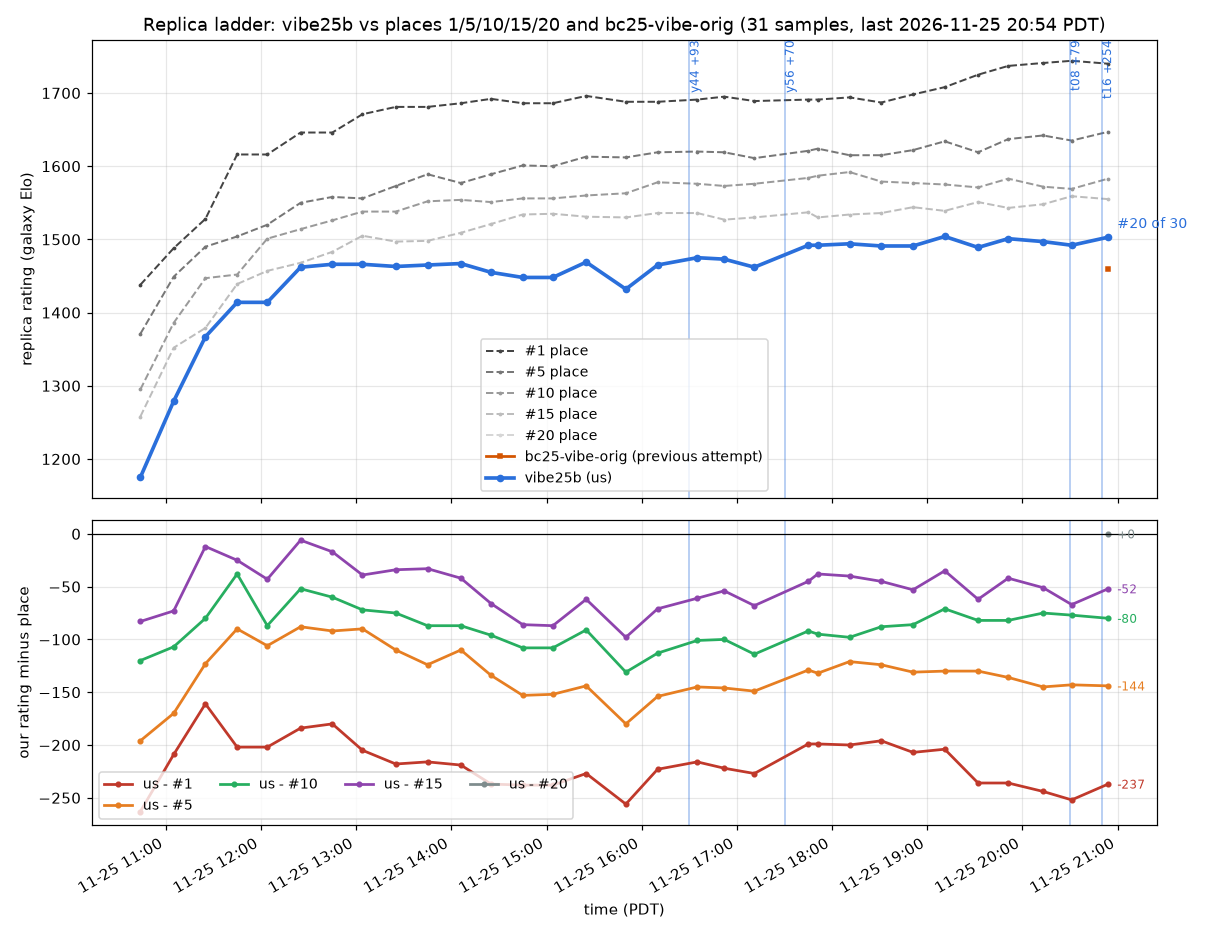
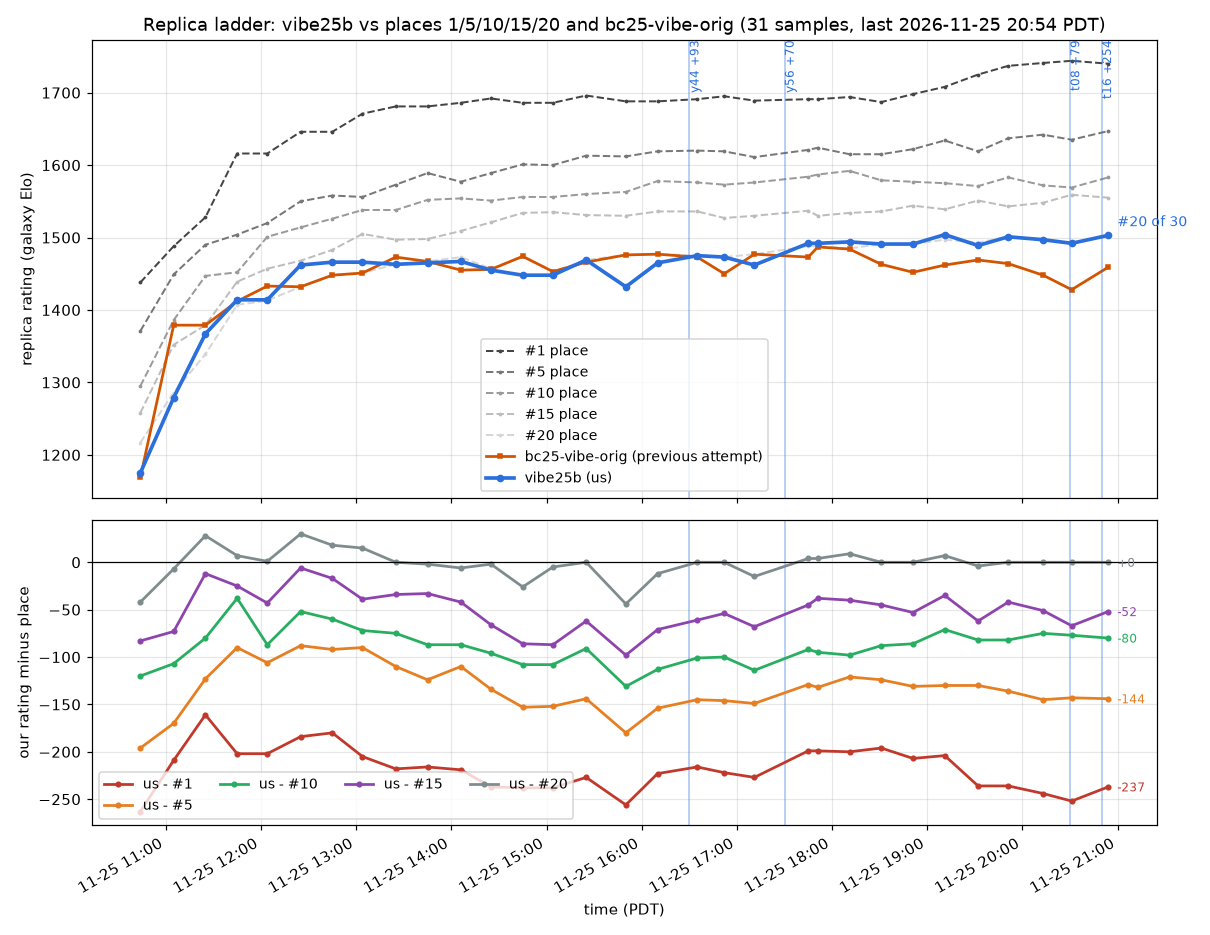
Replica chart: backfill 20th place and bc25-vibe-orig from match ratings (owner prompt #13)
Claude-Session: https://claude.ai/code/session_01SzziPSCWtjsjju9cnThDf5

diff --git a/tools/replica_elo.py b/tools/replica_elo.py
@@ -1,7 +1,7 @@
 #!/usr/bin/env python3
 """Our replica (galaxy) rating against wall-clock time, with the ratings at places 1, 5, 10, 15 and 20 (owner
 prompts #6, #13) and the rating of our previous 2025 attempt, team bc25-vibe-orig (owner prompt #13).
-There is no data before the first sample, taken 2026-11-25 ~10:30 PDT; p20 and orig start 2026-11-25 ~20:55 PDT.
+There is no data before the first sample, taken 2026-11-25 ~10:30 PDT; p20 and orig were sampled from 2026-11-25 20:54 PDT and backfilled before that from each ranked match's post-match ratings (that rebuild matched the recorded p1/p5/p15 and our own rating to within a few points).
 
   python3 tools/replica_elo.py sample     append one row to progress/replica-elo.csv (the prod runs this every cycle)
   ~/.venv-bc25b/bin/python tools/replica_elo.py chart   progress/replica-elo.png from that file
